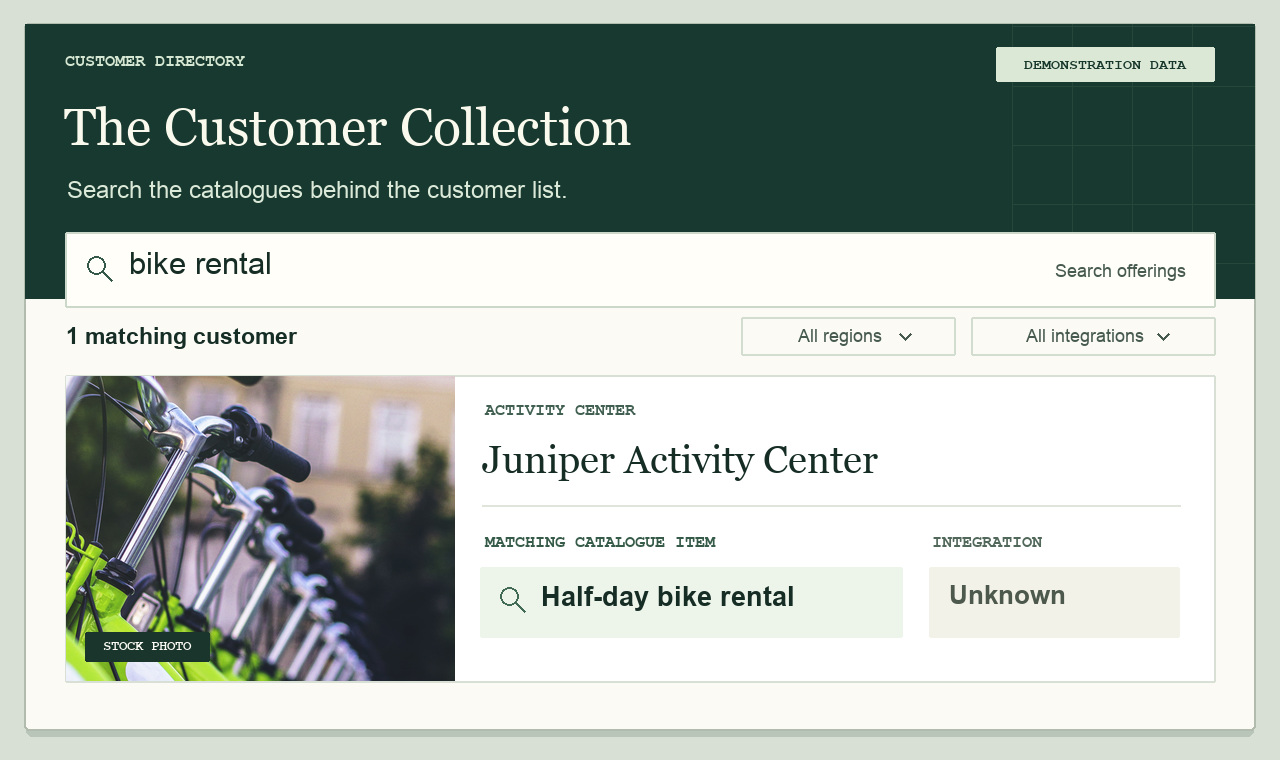
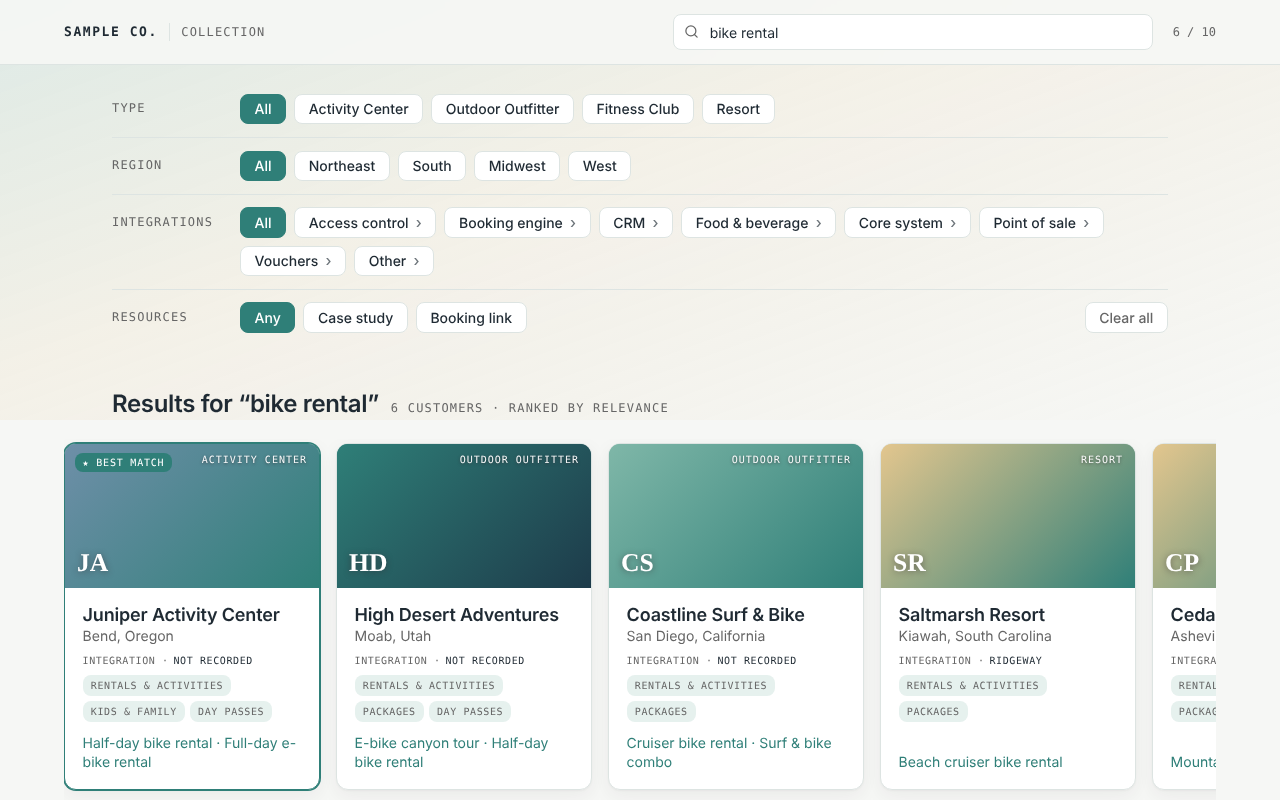
Customer Collection: real-tool screenshot with fictional customers

diff --git a/src/content/experiments/customer-collection.md b/src/content/experiments/customer-collection.md
@@ -18,8 +18,8 @@ Every few weeks someone in sales, marketing or customer success asked the same t
 Our hackathon team built a search page that could answer with an actual customer and the exact item they offered. I led the team during the hackathon. Afterward, I built out the worldwide version and packaged it so engineering could rebuild the file.
 
 <figure class="fig">
-  <img src="/experiments/customer-collection/demo.png" width="1280" height="760" fetchpriority="high" alt="A search for bike rental matches Half-day bike rental at a fictional activity center. The integration is unknown, and a stock photo shows a row of rental bikes.">
-  <figcaption><span class="kind">Screenshot</span> Recreated search result with a stock photo. Demonstration data.</figcaption>
+  <img src="/experiments/customer-collection/demo.png" width="1280" height="800" fetchpriority="high" alt="A fictional customer collection searched for 'bike rental', showing six matching customers with filters for type, region, integrations and resources.">
+  <figcaption><span class="kind">Screenshot</span> The real search tool, rebranded and loaded with fictional customers. Demonstration data.</figcaption>
 </figure>
 
 <section class="glance" aria-labelledby="at-a-glance">
